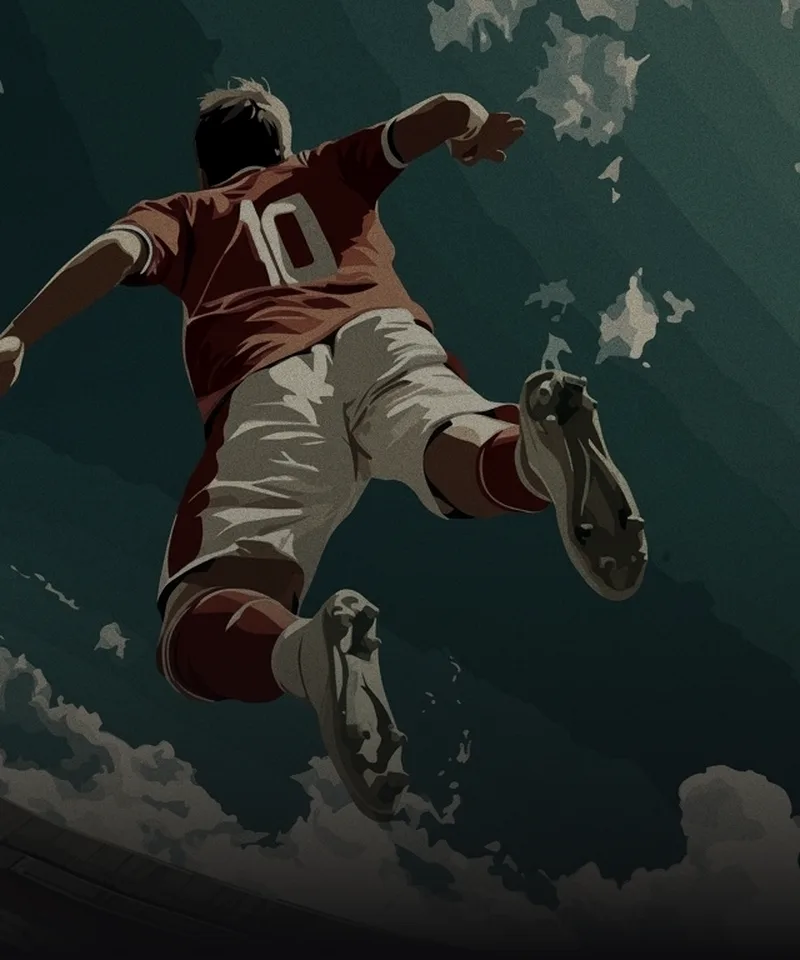
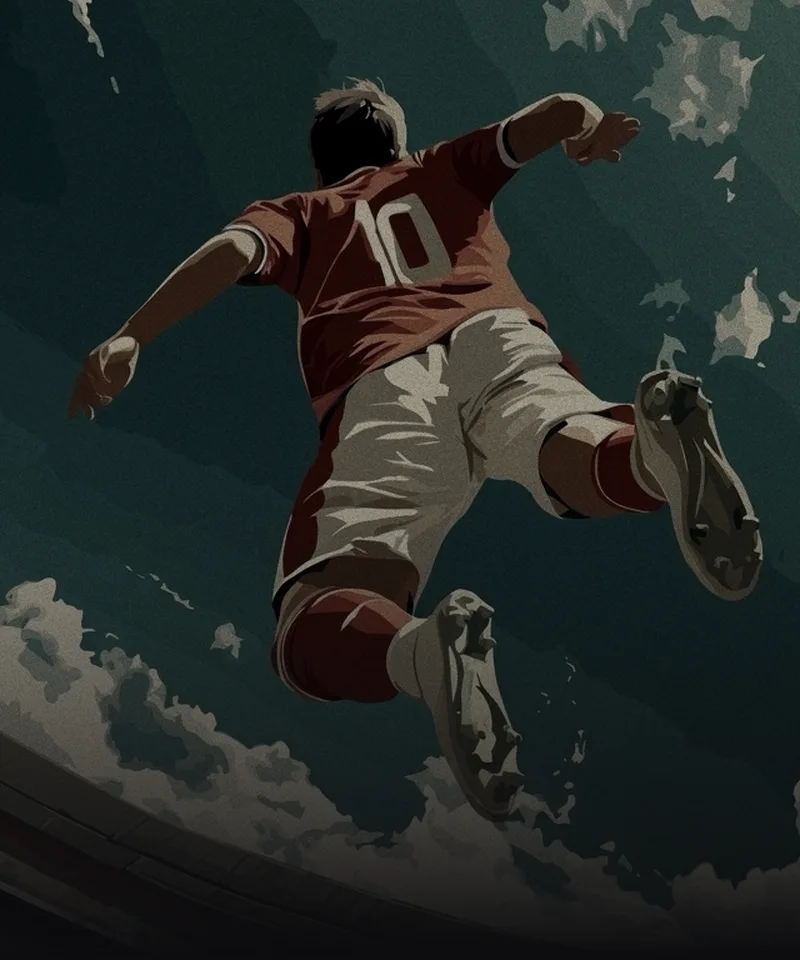
Слоты как удостоверение; титульная картинка без мяча, фигура целиком
Слот карьеры — шапка картки гравця: имя, поля «Матчів / Сезон / Місце» mono, девиз доминантного
голоса под линией; текущий — чип «зараз», пустой — пунктирный бланк с чипом «порожньо» (макет
«було / стало» v2, принят пользователем). Картинка титула — новая генерация без мяча, кадр 640 от
x=598: обе руки и обе бутсы в кадре, левой кисти запас под плёнку по краю.

diff --git a/src/ui/SlotsScreen.tsx b/src/ui/SlotsScreen.tsx
@@ -2,14 +2,17 @@ import { useState } from 'react';
 import { PLAYER } from '../content';
 import { readAllSlots, resetSlot, type SlotSummary } from '../telemetry/saves';
 import { activeSlot, setActiveSlot } from '../telemetry/slots';
-import { buildLabel, slotLine, slotMotto, slotTail } from './TitleScreen';
+import { buildLabel, slotMotto } from './TitleScreen';
 
-// Три слота карьеры (19.09) — список строк, как условия на брифинге и таблица сезона: подпись слева,
-// текст справа, разделители; текущий слот выделен как своя строка в таблице. Не карточки с полосой —
-// это читалось как шаблон (замечание пользователя). Пустой слот стартует сразу; занятый открывает
-// подтверждение: продолжить эту карьеру или стереть и начать заново — стирание красным и отдельно.
+// Три слота карьеры (19.09, макет «було / стало» v2) — каждый слот как удостоверение из картки
+// гравця: имя, поля «Матчів / Сезон / Місце», девиз доминантного голоса под линией. Состояние —
+// тем, чем игра уже его отмечает: чип «зараз» на текущем, пунктирный бланк с чипом «порожньо» на
+// пустом (как «далі» в ленте матча). Без цветной полосы и рамки-подсветки — это читалось как шаблон.
+// Пустой слот стартует сразу; занятый спрашивает: продолжить эту карьеру или стереть и начать.
 
 type Props = { onStart: (slot: number) => void; onBack: () => void };
+
+const plural = (n: number, one: string, few: string, many: string) => (n === 1 ? one : n < 5 ? few : many);
 
 export function SlotsScreen({ onStart, onBack }: Props) {
   const [slots, setSlots] = useState<SlotSummary[]>(() => readAllSlots());
@@ -28,38 +31,44 @@ export function SlotsScreen({ onStart, onBack }: Props) {
     <div className="slots plain-screen">
       <h1>Нова кар’єра</h1>
       <p className="muted">Три слоти. Порожній починає одразу, зайнятий спершу спитає.</p>
-      <div className="conditions slot-list" role="list">
+      <ul className="slot-list">
         {slots.map((s) => {
           const motto = slotMotto(s);
+          const now = s.slot === current && !s.empty;
           return (
-            <button
-              key={s.slot}
-              role="listitem"
-              className={`slot-row ${s.slot === current && !s.empty ? 'current' : ''} ${s.empty ? 'empty' : ''}`}
-              onClick={() => (s.empty ? start(s.slot, false) : setAsked(s.slot))}
-              aria-current={s.slot === current && !s.empty ? 'true' : undefined}
-            >
-              <span className="slot-dt">Слот {s.slot + 1}</span>
-              <span className="slot-dd">
+            <li key={s.slot}>
+              <button
+                className={`idc ${s.empty ? 'empty' : ''} ${now ? 'now' : ''}`}
+                onClick={() => (s.empty ? start(s.slot, false) : setAsked(s.slot))}
+                aria-current={now ? 'true' : undefined}
+              >
                 {s.empty ? (
-                  <>Порожньо. Ніхто ще не виходив на поле.</>
+                  <>
+                    <span className="idc-name">Слот {s.slot + 1} <i className="chip">порожньо</i></span>
+                    <span className="idm">Ніхто ще не виходив на поле. Тап — почати тут.</span>
+                  </>
                 ) : (
                   <>
-                    <b>{PLAYER.name}.</b> {slotLine(s)[0].toUpperCase() + slotLine(s).slice(1)} — {slotTail(s)}.
-                    {motto && <i> <span className={`voice-name voice-${motto.key}`}>{motto.who}</span>: «{motto.motto}»</i>}
+                    <span className="idc-name">{PLAYER.name} <i className="chip">{now ? 'зараз' : `слот ${s.slot + 1}`}</i></span>
+                    <dl className="idf">
+                      <dt>Матчів</dt><dd>{s.matches}</dd>
+                      <dt>Сезон</dt><dd>{s.over ? `${s.seasonNumber}, завершено` : `${s.seasonNumber}, тур ${s.round} з ${s.rounds}`}</dd>
+                      <dt>Місце</dt><dd>{s.position ? `${s.position}-е, ${s.points} ${plural(s.points, 'очко', 'очки', 'очок')}` : '—'}</dd>
+                    </dl>
+                    {motto && <span className="idm"><span className={`voice-name voice-${motto.key}`}>{motto.who}</span>: «{motto.motto}»</span>}
                   </>
                 )}
-              </span>
-            </button>
+              </button>
+            </li>
           );
         })}
-      </div>
+      </ul>
       {!askedSlot && <button className="row row-back" onClick={onBack}>На титул</button>}
 
       {askedSlot && (
         <div className="sheet" role="dialog" aria-labelledby="slot-sheet-title">
           <p id="slot-sheet-title">
-            У слоті {askedSlot.slot + 1} — {slotLine(askedSlot)}{askedSlot.position ? `, ${askedSlot.position}-е місце` : ''}. Нова кар’єра його зітре. Кубик цього не пам’ятатиме, а Реєс — так.
+            У слоті {askedSlot.slot + 1} — сезон {askedSlot.seasonNumber}, тур {askedSlot.round} з {askedSlot.rounds}{askedSlot.position ? `, ${askedSlot.position}-е місце` : ''}. Нова кар’єра його зітре. Кубик цього не пам’ятатиме, а Реєс — так.
           </p>
           <button className="danger-btn" onClick={() => start(askedSlot.slot, true)}>Стерти й почати</button>
           <button className="ghost" onClick={() => start(askedSlot.slot, false)}>Грати цією кар’єрою</button>

diff --git a/src/styles.css b/src/styles.css
@@ -643,7 +643,7 @@ html.reduce-motion .die, html.reduce-motion .dice-sum, html.reduce-motion .bar-f
 /* Кто ты и где — строкой под кнопкой, не карточкой (карточка с полосой читалась как шаблон — 19.09). */
 .title-career { margin: 10px 0 0; font-size: 14px; color: var(--muted); line-height: 1.5; }
 .title-career b { color: var(--ink); font-weight: 600; }
-.title-career i, .slot-dd i { color: var(--muted); }
+.title-career i { color: var(--muted); }
 .voice-name { font-style: normal; font-family: var(--font-caps); font-weight: 500; letter-spacing: .04em; text-transform: uppercase; font-size: .9em; }
 .voice-name.voice-ego { color: var(--v-ego); } .voice-name.voice-team { color: var(--v-team); } .voice-name.voice-vision { color: var(--v-vision); }
 .voice-name.voice-instinct { color: var(--v-instinct); } .voice-name.voice-body { color: var(--v-body); } .voice-name.voice-composure { color: var(--v-composure); }
@@ -660,20 +660,7 @@ html.reduce-motion .die, html.reduce-motion .dice-sum, html.reduce-motion .bar-f
 .plain-screen h1 { font-size: 22px; margin: 0 0 6px; }
 .plain-screen > .muted { margin-bottom: 14px; }
 .plain-screen .conditions { margin: 0 0 6px; }
-.slot-row, .set-row {
-  display: grid; grid-template-columns: 5.5rem 1fr; gap: 0.6rem; width: 100%; min-height: 52px; padding: 0.6rem 2px; text-align: left;
-  background: none; border: 0; border-top: 1px solid rgba(255,255,255,0.08); border-radius: 0; color: var(--ink); font: inherit; line-height: 1.45;
 }
-.slot-row:last-child, .set-row:last-child { border-bottom: 1px solid rgba(255,255,255,0.08); }
-.slot-row:hover, .set-row:hover, .slot-row:active, .set-row:active { background: #131316; border-color: rgba(255,255,255,0.08); }
-.slot-row:focus-visible, .set-row:focus-visible { outline: none; box-shadow: inset 3px 0 0 var(--ink); }
-.slot-dt { opacity: 0.55; font-size: 0.85em; text-transform: uppercase; letter-spacing: 0.04em; padding-top: 0.15rem; }
-.slot-dd b { font-weight: 600; }
-/* Текущий слот — как своя строка в таблице сезона. */
-.slot-row.current { background: var(--panel); }
-.slot-row.current .slot-dt { opacity: .8; }
-.slot-row.empty .slot-dd { color: var(--muted); }
-.set-row.danger .slot-dd b { color: var(--bad-soft); }
 .sheet { margin-top: auto; padding: 14px 14px 12px; background: var(--panel-2); border: 1px solid var(--line-2); border-radius: 4px; display: grid; gap: 8px; }
 .sheet p { margin: 0 0 4px; font-size: 14.5px; }
 .danger-btn { display: block; width: 100%; background: var(--bad); color: #fff; border: 0; border-radius: 6px; padding: 12px; font-family: var(--font-caps); font-weight: 600; letter-spacing: .1em; text-transform: uppercase; font-size: 14px; }
@@ -701,3 +688,20 @@ html.reduce-motion .die, html.reduce-motion .dice-sum, html.reduce-motion .bar-f
 .toggle.on::after { left: 22px; }
 /* Налаштування возвращены к 42de5db по решению пользователя (19.09); хеш сборки там — mono, как было. */
 .settings .build { font-family: var(--font-mono); font-size: 10.5px; letter-spacing: .06em; color: var(--muted); text-transform: uppercase; }
+
+/* Слот = удостоверение (макет «було / стало» v2, 19.09): шапка картки гравця, чип состояния, пунктирный бланк для пустого. */
+.slot-list { list-style: none; margin: 0 0 6px; padding: 0; display: grid; gap: 8px; }
+.slot-list li { margin: 0; }
+.idc { display: block; width: 100%; text-align: left; padding: 12px 14px 10px; border: 1px solid var(--line-2); border-radius: 6px; background: var(--panel); color: var(--ink); font: inherit; }
+.idc.now { border-color: #4a463c; }
+.idc.empty { background: transparent; border-style: dashed; color: var(--muted); }
+.idc:hover { border-color: var(--muted); }
+.idc:active { background: var(--panel-2); }
+.idc:focus-visible { outline: none; box-shadow: inset 3px 0 0 var(--ink); }
+.idc-name { display: flex; align-items: baseline; justify-content: space-between; gap: 10px; font-size: 19px; font-weight: 600; line-height: 1.2; }
+.idc.empty .idc-name { font-size: 16px; font-weight: 400; }
+.chip { font-family: var(--font-mono); font-size: 10.5px; letter-spacing: .04em; color: var(--muted); border: 1px solid var(--line-2); border-radius: 3px; padding: 1px 6px; font-weight: 400; font-style: normal; white-space: nowrap; }
+.idf { margin: 6px 0 0; display: grid; grid-template-columns: auto 1fr; gap: 2px 12px; font-size: 13px; }
+.idf dt { color: var(--muted); } .idf dd { margin: 0; font-family: var(--font-mono); font-size: 12.5px; }
+.idm { display: block; margin: 8px 0 0; padding-top: 8px; border-top: 1px solid var(--line-2); font-style: italic; color: var(--muted); font-size: 13.5px; line-height: 1.45; }
+.idc.empty .idm { border-top-style: dashed; }
